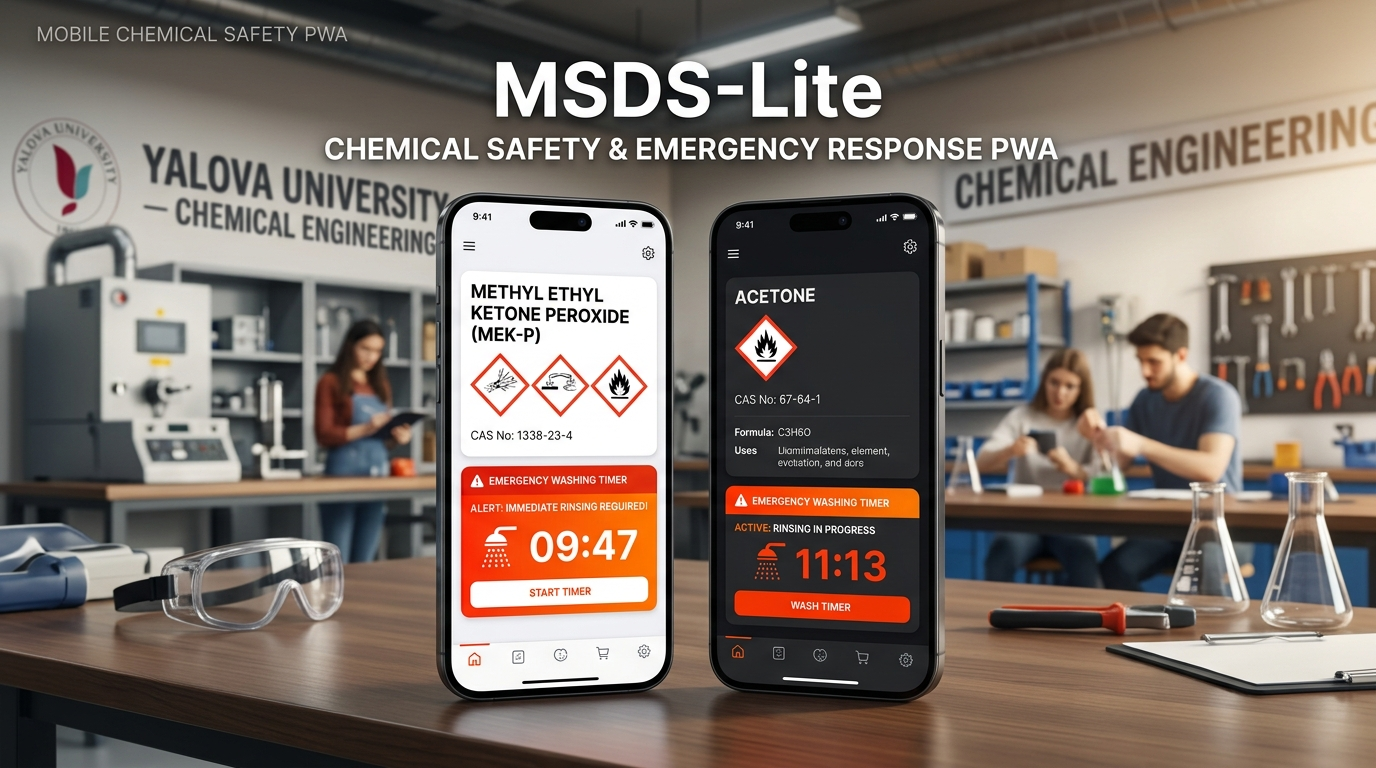
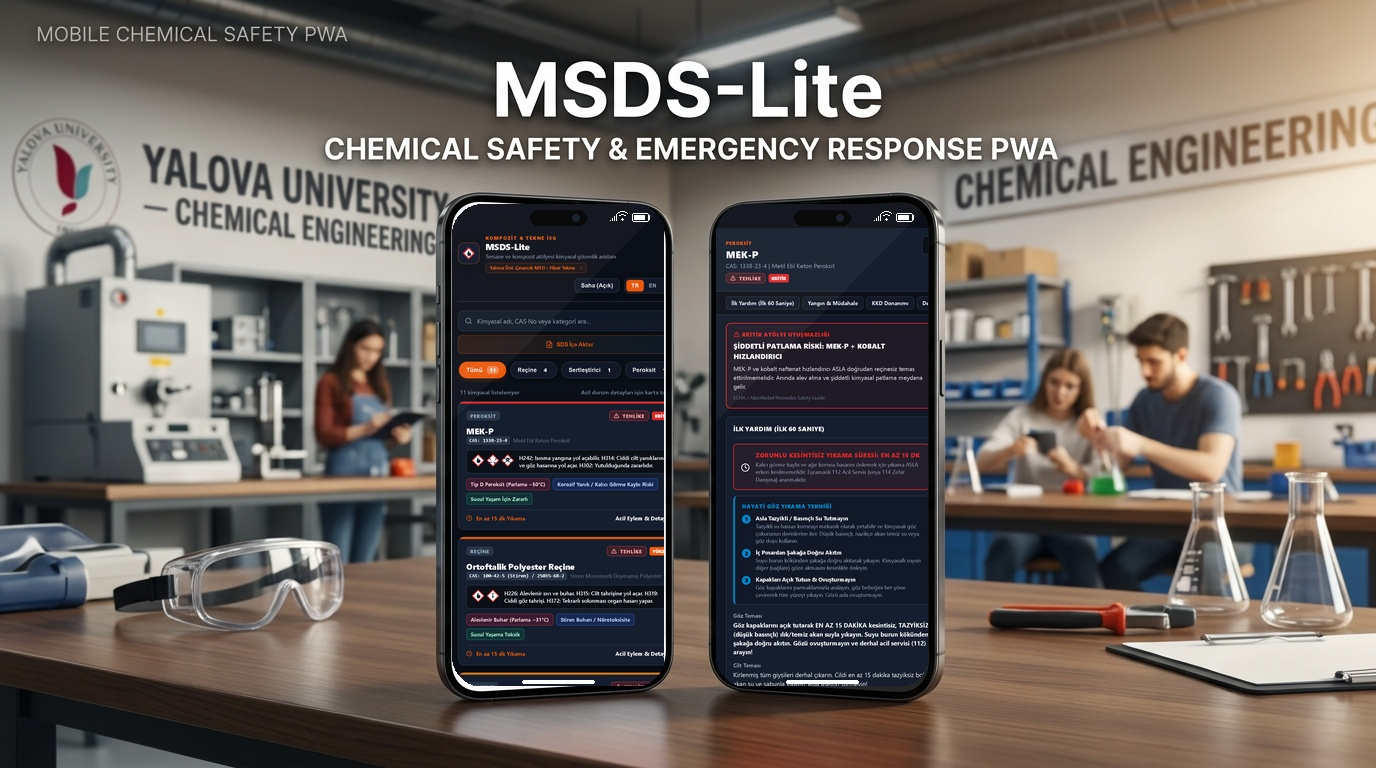
fix(docs,perf): remove PC setup instructions, upgrade mockup with authentic in-app screenshots, and optimize PC rendering (v1.7.9)

Changed region(s): [[0.3125, 0.25, 0.6875, 0.9062]]

diff --git a/index.html b/index.html
@@ -20,7 +20,7 @@
   <link rel="manifest" href="manifest.json">
   <link rel="icon" type="image/svg+xml" href="icons/icon.svg">
   <link rel="apple-touch-icon" href="icons/icon-192.png">
-  <script src="vendor/pdf.min.js"></script>
+  <script src="vendor/pdf.min.js" defer></script>
   <script>
     (function () {
       try {
@@ -779,12 +779,11 @@
       left: 0;
       right: 0;
       bottom: 0;
-      background: rgba(15, 23, 42, 0.6);
-      backdrop-filter: blur(4px);
-      -webkit-backdrop-filter: blur(4px);
+      background: rgba(11, 15, 23, 0.72);
       opacity: 0;
       visibility: hidden;
       pointer-events: none;
+      transform: translateZ(0);
       transition: opacity 0.2s ease, visibility 0.2s ease;
       z-index: 99;
     }
@@ -1356,12 +1355,11 @@
       left: 0;
       width: 100%;
       height: 100%;
-      background: rgba(15, 23, 42, 0.72);
-      backdrop-filter: blur(5px);
-      -webkit-backdrop-filter: blur(5px);
+      background: rgba(11, 15, 23, 0.72);
       opacity: 0;
       visibility: hidden;
       pointer-events: none;
+      transform: translateZ(0);
       transition: opacity 0.22s ease, visibility 0.22s ease;
       z-index: 1000;
     }
@@ -1743,12 +1741,11 @@
       left: 0;
       width: 100%;
       height: 100%;
-      background: rgba(15, 23, 42, 0.72);
-      backdrop-filter: blur(5px);
-      -webkit-backdrop-filter: blur(5px);
+      background: rgba(11, 15, 23, 0.72);
       opacity: 0;
       visibility: hidden;
       pointer-events: none;
+      transform: translateZ(0);
       transition: opacity 0.22s ease, visibility 0.22s ease;
       z-index: 1000;
     }
@@ -4566,7 +4563,7 @@
               </div>
 
               <div class="footer-meta">
-                <span class="version-tag">MSDS-Lite v1.7.8</span>
+                <span class="version-tag">MSDS-Lite v1.7.9</span>
                 <button type="button" class="footer-refresh-btn" id="btnForceRefresh" title="Önbelleği temizle ve güncellemeleri yükle">
                   <svg width="12" height="12" viewBox="0 0 24 24" fill="none" stroke="currentColor" stroke-width="2.4" stroke-linecap="round" stroke-linejoin="round" style="display:inline-block;vertical-align:-1px;margin-right:4px;"><path d="M21.5 2v6h-6M21.34 15.57a10 10 0 1 1-.57-8.38l5.67-5.67"/></svg>
                   <span>${t('checkUpdate')}</span>
@@ -6047,11 +6044,14 @@
             window.addEventListener('mouseup', onMouseUp);
           });
 
-          // PC mouse wheel vertical-to-horizontal scrolling
+          // PC mouse wheel vertical-to-horizontal scrolling (smart boundary checking)
           categoryGrid.addEventListener('wheel', (e) => {
-            if (e.deltaY !== 0) {
-              e.preventDefault();
-              categoryGrid.scrollLeft += e.deltaY;
+            if (Math.abs(e.deltaY) > Math.abs(e.deltaX)) {
+              const maxScroll = categoryGrid.scrollWidth - categoryGrid.clientWidth;
+              if ((e.deltaY > 0 && categoryGrid.scrollLeft < maxScroll) || (e.deltaY < 0 && categoryGrid.scrollLeft > 0)) {
+                e.preventDefault();
+                categoryGrid.scrollLeft += e.deltaY;
+              }
             }
           }, { passive: false });
         }
@@ -6132,9 +6132,9 @@
               // 2. Güvenli önbellek yenileme (yeni dosyayı çek, sonra cache'e yaz - eski cache'i ASLA önceden silme)
               if ('caches' in window) {
                 const cacheNames = await caches.keys();
-                const activeCacheName = cacheNames.find(c => c.startsWith('msds-lite-')) || 'msds-lite-v1.7.8';
+                const activeCacheName = cacheNames.find(c => c.startsWith('msds-lite-')) || 'msds-lite-v1.7.9';
                 const cache = await caches.open(activeCacheName);
-                const urlsToUpdate = ['./', './index.html', './data/chemicals.json', './manifest.json', './icons/qr-code.svg', './icons/qr-code.svg?v=1.7.8'];
+                const urlsToUpdate = ['./', './index.html', './data/chemicals.json', './manifest.json', './icons/qr-code.svg', './icons/qr-code.svg?v=1.7.9'];
                 await Promise.allSettled(urlsToUpdate.map(async (url) => {
                   const res = await fetch(url, { cache: 'reload' });
                   if (res && res.ok) {
@@ -6314,9 +6314,9 @@
       toast.className = 'pwa-update-toast';
       const lang = (window.__msdsState && window.__msdsState.language) || localStorage.getItem('msds-language') || 'tr';
       const titles = {
-        tr: 'Yeni Sürüm Hazır (v1.7.8)',
-        en: 'New Version Ready (v1.7.8)',
-        de: 'Neue Version Bereit (v1.7.8)'
+        tr: 'Yeni Sürüm Hazır (v1.7.9)',
+        en: 'New Version Ready (v1.7.9)',
+        de: 'Neue Version Bereit (v1.7.9)'
       };
       const descs = {
         tr: 'Güncel güvenlik protokollerini yüklemek için dokunun.',
@@ -6343,7 +6343,7 @@
         if ('caches' in window) {
           try {
             const keys = await caches.keys();
-            await Promise.all(keys.filter(k => k !== 'msds-lite-v1.7.8').map(k => caches.delete(k)));
+            await Promise.all(keys.filter(k => k !== 'msds-lite-v1.7.9').map(k => caches.delete(k)));
           } catch (e) {}
         }
         window.location.reload(true);

diff --git a/sw.js b/sw.js
@@ -1,4 +1,4 @@
-const CACHE_NAME = 'msds-lite-v1.7.8';
+const CACHE_NAME = 'msds-lite-v1.7.9';
 const APP_SHELL = [
   './',
   './index.html',
@@ -9,7 +9,7 @@ const APP_SHELL = [
   './icons/icon.svg',
   './icons/icon-maskable.svg',
   './icons/qr-code.svg',
-  './icons/qr-code.svg?v=1.7.8',
+  './icons/qr-code.svg?v=1.7.9',
   './vendor/pdf.min.js',
   './vendor/pdf.worker.min.js',
   './samples/sample_1_polipol_3401_tr.pdf',

diff --git a/README.md b/README.md
@@ -4,7 +4,7 @@
 
 [ Türkçe ](README.md) • [ English ](README.en.md) • [ Deutsch ](README.de.md)
 
-[![Version](https://img.shields.io/badge/Version-v1.7.8-orange?style=flat-square)](https://github.com/erdmsn77/msds-lite/releases)
+[![Version](https://img.shields.io/badge/Version-v1.7.9-orange?style=flat-square)](https://github.com/erdmsn77/msds-lite/releases)
 [![Deploy](https://img.shields.io/github/actions/workflow/status/erdmsn77/msds-lite/deploy-pages.yml?branch=main&style=flat-square&label=Deploy&color=success)](https://github.com/erdmsn77/msds-lite/actions/workflows/deploy-pages.yml)
 [![PWA Ready](https://img.shields.io/badge/PWA-Ready-22d3ee?style=flat-square&logo=pwa)](https://erdmsn77.github.io/msds-lite/)
 [![Offline First](https://img.shields.io/badge/Offline-100%25-emerald?style=flat-square)](https://erdmsn77.github.io/msds-lite/)
@@ -95,37 +95,13 @@ Atölyelerde en sık karşılaşılan ve kaza riski taşıyan 11 temel kimyasal 
 
 ---
 
-## Kurulum ve Yerel Çalıştırma
+## Mobil Cihaza Yükleme (PWA Saha Kurulumu)
 
-Proje statik dosyalardan oluştuğu için herhangi bir derleme aracı veya paket yöneticisi bağımlılığı (`npm`, `yarn`, `webpack` vb.) bulunmamaktadır.
+MSDS-Lite, tersane hangarları ve kompozit atölyelerindeki saha pratikleri göz önüne alınarak **doğrudan mobil cihazlar için optimize edilmiştir**. Bilgisayarınıza harici kurulum yapmaya, terminal komutlarına veya paket yöneticilerine gerek yoktur; telefonunuzun ana ekranından yerel bir mobil uygulama gibi anında çalışır:
 
-1. Projeyi bilgisayarınıza klonlayın:
-   ```bash
-   git clone https://github.com/erdmsn77/msds-lite.git
-   cd msds-lite
-   ```
-2. Service Worker ve yerel depolama özelliklerinin çalışabilmesi için yerel bir HTTP sunucusu başlatın:
-   ```bash
-   # Python ile:
-   python -m http.server 4173
-
-   # veya Node.js ile:
-   npx http-server . -p 4173
-   ```
-3. Tarayıcınızda açın:
-   ```
-   http://localhost:4173/index.html
-   ```
-
----
-
-## Mobil Cihaza Yükleme (PWA)
-
-Uygulama internete ihtiyaç duymadan doğrudan telefonun ana ekranından yerel bir mobil uygulama gibi çalıştırılabilir:
-
-* **Android (Chrome):** [Canlı bağlantıyı](https://erdmsn77.github.io/msds-lite/) açın, sağ üstteki üç noktaya tıklayın ve **"Uygulamayı Yükle"** veya **"Ana Ekrana Ekle"** seçeneğini seçin.
+* **Android (Chrome):** [Canlı bağlantıyı](https://erdmsn77.github.io/msds-lite/) açın, sağ üstteki üç noktaya dokunun ve **"Uygulamayı Yükle"** veya **"Ana Ekrana Ekle"** seçeneğini seçin.
 * **iOS / iPhone (Safari):** Safari'de canlı adresi açın, alt kısımdaki **Paylaş** simgesine dokunun ve **"Ana Ekrana Ekle"** butonuna basın.
-* **Hızlı QR Kurulum:** Telefonunuzun kamerasını aşağıdaki koda doğrultarak doğrudan açın:
+* **Hızlı QR Kurulum:** Akıllı telefonunuzun kamerasını aşağıdaki koda doğrultarak sahada saniyeler içinde çalıştırın:
 
 <p align="center">
   <a href="https://erdmsn77.github.io/msds-lite/">

diff --git a/README.en.md b/README.en.md
@@ -4,7 +4,7 @@
 
 [ Türkçe ](README.md) • [ English ](README.en.md) • [ Deutsch ](README.de.md)
 
-[![Version](https://img.shields.io/badge/Version-v1.7.8-orange?style=flat-square)](https://github.com/erdmsn77/msds-lite/releases)
+[![Version](https://img.shields.io/badge/Version-v1.7.9-orange?style=flat-square)](https://github.com/erdmsn77/msds-lite/releases)
 [![Deploy](https://img.shields.io/github/actions/workflow/status/erdmsn77/msds-lite/deploy-pages.yml?branch=main&style=flat-square&label=Deploy&color=success)](https://github.com/erdmsn77/msds-lite/actions/workflows/deploy-pages.yml)
 [![PWA Ready](https://img.shields.io/badge/PWA-Ready-22d3ee?style=flat-square&logo=pwa)](https://erdmsn77.github.io/msds-lite/)
 [![Offline First](https://img.shields.io/badge/Offline-100%25-emerald?style=flat-square)](https://erdmsn77.github.io/msds-lite/)
@@ -95,37 +95,13 @@ The application covers the 11 most hazardous and commonly utilized substances in
 
 ---
 
-## Installation & Local Development
+## Installing on Mobile Devices (PWA Field Setup)
 
-Because MSDS-Lite is built with pure static files, no bundlers, transpilers, or package managers (`npm`, `yarn`, `webpack`, etc.) are needed.
+MSDS-Lite is purpose-built as a **mobile field assistant** for boatyards and workshops. No terminal setup, compilation tools, or desktop software is required; it runs directly from your mobile home screen with native app performance:
 
-1. Clone the repository:
-   ```bash
-   git clone https://github.com/erdmsn77/msds-lite.git
-   cd msds-lite
-   ```
-2. Start a local HTTP server (required for Service Worker operation and local file loading):
-   ```bash
-   # Using Python:
-   python -m http.server 4173
-
-   # Or using Node.js:
-   npx http-server . -p 4173
-   ```
-3. Open in your browser:
-   ```
-   http://localhost:4173/index.html
-   ```
-
----
-
-## Installing on Mobile Devices (PWA)
-
-Run MSDS-Lite directly from your device home screen with native app performance and full offline functionality:
-
-* **Android (Chrome):** Open the [live demo](https://erdmsn77.github.io/msds-lite/), tap the browser menu (three dots) in the upper-right corner, and select **"Install app"** or **"Add to Home Screen"**.
-* **iOS / iPhone (Safari):** Open the address in Safari, tap the **Share** button at the bottom, and select **"Add to Home Screen"**.
-* **Instant QR Install:** Point your smartphone camera directly at the QR code below:
+* **Android (Chrome):** Open the [live application](https://erdmsn77.github.io/msds-lite/), tap the browser menu (three dots) in the top-right corner, and select **"Install app"** or **"Add to Home Screen"**.
+* **iOS / iPhone (Safari):** Open the address in Safari, tap the **Share** button at the bottom bar, and select **"Add to Home Screen"**.
+* **Instant QR Setup:** Point your smartphone camera directly at the code below to launch in seconds:
 
 <p align="center">
   <a href="https://erdmsn77.github.io/msds-lite/">

diff --git a/README.de.md b/README.de.md
@@ -4,7 +4,7 @@
 
 [ Türkçe ](README.md) • [ English ](README.en.md) • [ Deutsch ](README.de.md)
 
-[![Version](https://img.shields.io/badge/Version-v1.7.8-orange?style=flat-square)](https://github.com/erdmsn77/msds-lite/releases)
+[![Version](https://img.shields.io/badge/Version-v1.7.9-orange?style=flat-square)](https://github.com/erdmsn77/msds-lite/releases)
 [![Deploy](https://img.shields.io/github/actions/workflow/status/erdmsn77/msds-lite/deploy-pages.yml?branch=main&style=flat-square&label=Deploy&color=success)](https://github.com/erdmsn77/msds-lite/actions/workflows/deploy-pages.yml)
 [![PWA Ready](https://img.shields.io/badge/PWA-Ready-22d3ee?style=flat-square&logo=pwa)](https://erdmsn77.github.io/msds-lite/)
 [![Offline First](https://img.shields.io/badge/Offline-100%25-emerald?style=flat-square)](https://erdmsn77.github.io/msds-lite/)
@@ -95,35 +95,13 @@ Die 11 gefährlichsten und häufigsten Arbeitsstoffe in modernen Komposit-Werkst
 
 ---
 
-## Installation & Lokale Ausführung
+## PWA auf dem Smartphone installieren (Praxiseinsatz)
 
-Da MSDS-Lite aus reinen statischen Dateien besteht, sind keine Build-Tools oder Paketmanager (`npm`, `yarn` etc.) erforderlich.
-
-1. Repository klonen:
-   ```bash
-   git clone https://github.com/erdmsn77/msds-lite.git
-   cd msds-lite
-   ```
-2. Lokalen HTTP-Server starten (erforderlich für Service Worker und Laden der JSON-Daten):
-   ```bash
-   # Mit Python:
-   python -m http.server 4173
-
-   # Oder mit Node.js:
-   npx http-server . -p 4173
-   ```
-3. Im Browser öffnen:
-   ```
-   http://localhost:4173/index.html
-   ```
-
----
-
-## PWA auf dem Smartphone installieren
+MSDS-Lite wurde speziell für den **mobilen Einsatz vor Ort** in Werfthallen und Kompositwerkstätten entwickelt. Es sind weder Terminalbefehle, Compiler noch Desktop-Software erforderlich; die Anwendung läuft direkt vom Smartphone-Startbildschirm mit voller nativer App-Leistung:
 
 * **Android (Chrome):** [Live-Version](https://erdmsn77.github.io/msds-lite/) aufrufen, Menü (drei Punkte) öffnen und **„App installieren“** oder **„Zum Startbildschirm hinzufügen“** wählen.
 * **iOS / iPhone (Safari):** Live-URL in Safari öffnen, auf das **Teilen-Symbol** tippen und **„Zum Home-Bildschirm“** auswählen.
-* **Schnellinstallation per QR-Code:** Richten Sie Ihre Smartphone-Kamera direkt auf den folgenden QR-Code:
+* **Schnellinstallation per QR-Code:** Richten Sie Ihre Smartphone-Kamera direkt auf den folgenden QR-Code, um die App in Sekundenschnelle einsatzbereit zu haben:
 
 <p align="center">
   <a href="https://erdmsn77.github.io/msds-lite/">
